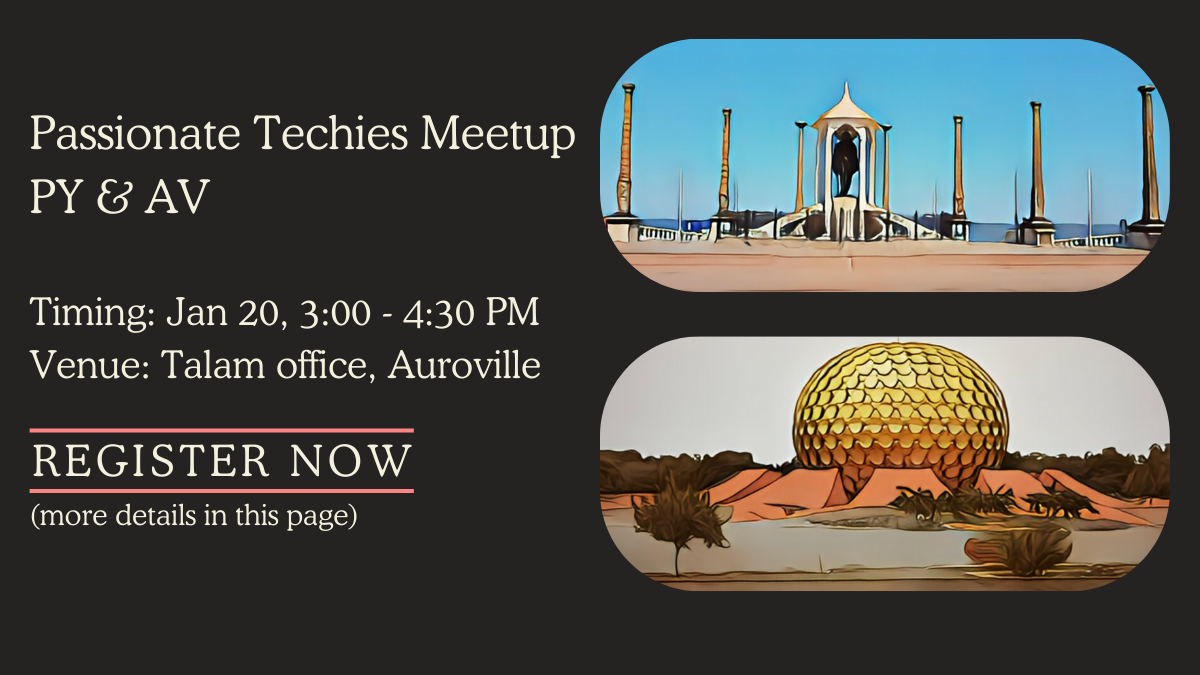
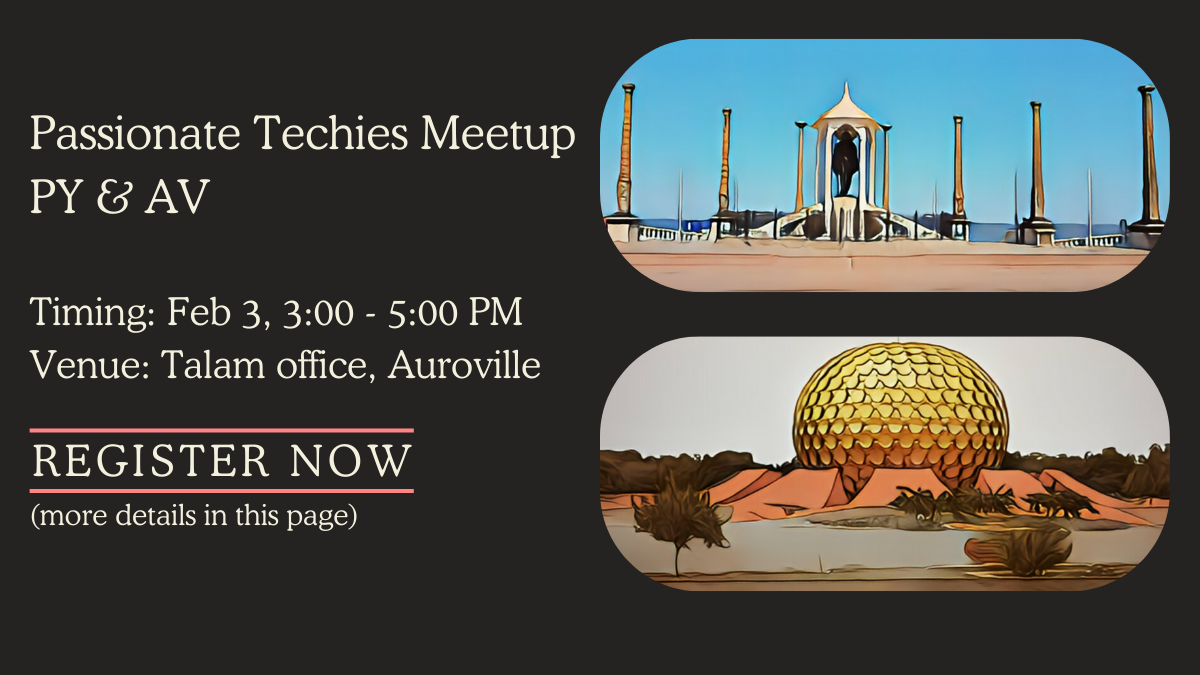
Update the meetup page description and social preview card (#5)
Update it for the current timings

Changed region(s): [[0.1233, 0.4356, 0.4625, 0.4978]]

diff --git a/pages/_app.js b/pages/_app.js
@@ -94,7 +94,7 @@ export default function App({ Component, pageProps }) {
         <title>Passionate Techies Meetup - PY & AV</title>
         <meta
           httpEquiv="Refresh"
-          content="0; URL=https://kommunity.com/passionate-techies-meetup-group-py-av/events/meetup-1-b03bc360"
+          content="0; URL=https://kommunity.com/passionate-techies-meetup-group-py-av/events/passionate-techies-meetup-py-av-f25bc13c"
         />
         <meta property="og:title" content="Passionate Techies Meetup - PY & AV" />
         <meta property="og:site_name" content="Passionate Techies Meetup - PY & AV" />
@@ -121,7 +121,7 @@ export default function App({ Component, pageProps }) {
         <meta name="twitter:title" content="Passionate Techies Meetup - PY & AV" />
         <meta
           name="twitter:description"
-          content="Register now for the upcoming local tech community meetup on Jan 20 from 3:00 - 4:30 PM"
+          content="Register now for the upcoming local tech community meetup on Feb 3 from 3:00 - 5:00 PM"
         />
         <meta
           name="twitter:image"

diff --git a/pages/meetup.js b/pages/meetup.js
@@ -13,7 +13,7 @@ export default function Meetup(_) {
         <Link
           className="pt-8 text-primary-500 hover:text-primary-600 dark:hover:text-primary-400"
           href={
-            'https://kommunity.com/passionate-techies-meetup-group-py-av/events/meetup-1-b03bc360'
+            'https://kommunity.com/passionate-techies-meetup-group-py-av/events/passionate-techies-meetup-py-av-f25bc13c'
           }
         >
           {' '}
